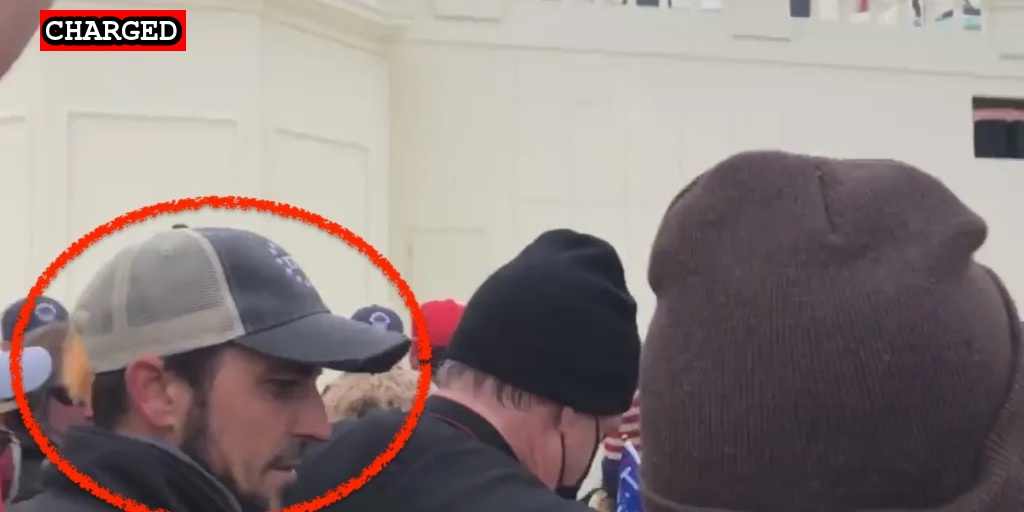
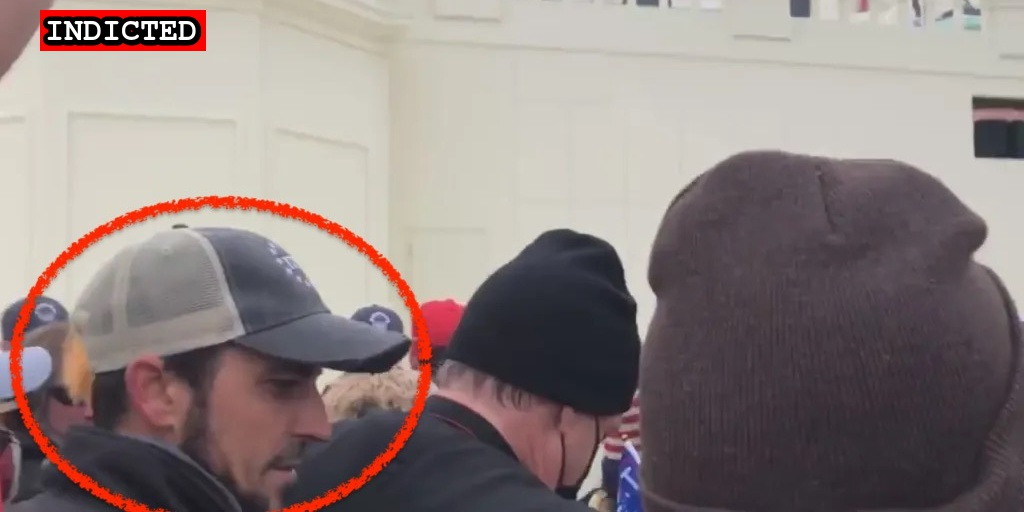
New suspects and indictments

Changed region(s): [[0.0312, 0.0, 0.2188, 0.125]]

diff --git a/commands/suspect-import.ts b/commands/suspect-import.ts
@@ -254,6 +254,8 @@ const linkType = (description: string, lastName?: string) => {
       case /charging_docs\.pdf/.test(description):
       case /affadavit/.test(description):
       case /Charging Documents/.test(description):
+      case /mchugh/.test(description):
+      case /Statement of Offense/.test(description):
         return "Statement of Facts"
       case /Indictment/.test(description):
       case /indictment/.test(description):

diff --git a/docs/_suspects/james-mcgrew.md b/docs/_suspects/james-mcgrew.md
@@ -1,0 +1,31 @@
+---
+name: James Mcgrew
+lastName: Mcgrew
+aka:
+residence: Arizona
+status: Charged
+date: 2021-05-27
+charged: 2021-05-27
+indicted:
+age:
+occupation:
+affiliations:
+jurisdiction: Federal
+image: /images/preview/james-mcgrew.png
+suspect: james-mcgrew.png
+booking:
+courtroom:
+courthouse:
+raid:
+perpwalk:
+quote: "We're coming in here, whether you like it or not"
+title: James Mcgrew charged on May 27, 2021
+description: Click for latest case details. Suspects innocent until proven guilty.
+author: seditiontrack
+layout: suspect
+published: true
+charges:
+---
+
+- [News Report](https://www.azcentral.com/story/news/local/arizona/2021/06/02/james-burton-mcgrew-king-james-belly-tattoo-arrested-arizona-striking-2-officers-capitol-riot-jan-6/7499980002/)
+- [Statement of Facts](https://www.justice.gov/usao-dc/case-multi-defendant/file/1400856/download)

diff --git a/docs/_suspects/audrey-southard-rumsey.md b/docs/_suspects/audrey-southard-rumsey.md
@@ -1,0 +1,31 @@
+---
+name: Audrey Southard Rumsey
+lastName: Southard Rumsey
+aka:
+residence: Florida
+status: Charged
+date: 2021-06-01
+charged: 2021-06-01
+indicted:
+age:
+occupation:
+affiliations:
+jurisdiction: Federal
+image: /images/preview/audrey-southard-rumsey.png
+suspect: audrey-southard-rumsey.png
+booking:
+courtroom:
+courthouse:
+raid:
+perpwalk:
+quote:
+title: Audrey Southard Rumsey charged on June 1, 2021
+description: Click for latest case details. Suspects innocent until proven guilty.
+author: seditiontrack
+layout: suspect
+published: true
+charges:
+---
+
+- [News Report](https://lawandcrime.com/u-s-capitol-siege/florida-woman-assaulted-u-s-capitol-sergeant-with-a-flagpole-and-threatened-nancy-pelosi-on-jan-6th-feds-say/)
+- [Statement of Facts](https://www.justice.gov/usao-dc/case-multi-defendant/file/1401016/download)

diff --git a/docs/_suspects/joseph-hackett.md b/docs/_suspects/joseph-hackett.md
@@ -1,0 +1,30 @@
+---
+name: Joseph Hackett
+lastName: Hackett
+aka:
+residence: Florida
+status: Indicted
+date: 2021-05-26
+charged: 2021-05-26
+indicted: 2021-05-26
+age:
+occupation:
+affiliations:
+jurisdiction: Federal
+image: /images/preview/joseph-hackett.jpg
+suspect: joseph-hackett.jpg
+booking: Joseph-Hackett.jpg
+courtroom:
+courthouse:
+raid:
+perpwalk:
+quote: 'Messages in cursive to eliminate digital reads.'
+title: Joseph Hackett charged on May 26, 2021
+description: Click for latest case details. Suspects innocent until proven guilty.
+author: seditiontrack
+layout: suspect
+published: true
+charges:
+---
+- [News Report](https://www.mysuncoast.com/2021/05/31/sarasota-man-facing-changes-jan-capitol-riot/)
+- [Indictment](https://extremism.gwu.edu/sites/g/files/zaxdzs2191/f/Caldwell%20et%20al%20Fourth%20Superseding%20Indictment.pdf)

diff --git a/docs/_suspects/william-isaacs.md b/docs/_suspects/william-isaacs.md
@@ -1,0 +1,30 @@
+---
+name: William Isaacs
+lastName: Isaacs
+aka:
+residence: Florida
+status: Indicted
+date: 2021-05-26
+charged: 2021-05-26
+indicted: 2021-05-26
+age:
+occupation:
+affiliations:
+jurisdiction: Federal
+image: /images/preview/william-isaacs.png
+suspect: william-isaacs.png
+booking:
+courtroom:
+courthouse: william-isaacs.png
+raid:
+perpwalk:
+quote:
+title: William Isaacs charged on May 26, 2021
+description: Click for latest case details. Suspects innocent until proven guilty.
+author: seditiontrack
+layout: suspect
+published: true
+charges:
+---
+- [News Report](https://www.clickorlando.com/news/local/2021/05/31/grand-jury-indicts-kissimmee-man-for-alleged-role-in-capitol-riot/)
+- [Indictment](https://extremism.gwu.edu/sites/g/files/zaxdzs2191/f/Caldwell%20et%20al%20Fourth%20Superseding%20Indictment.pdf)

diff --git a/docs/_suspects/jason-dolan.md b/docs/_suspects/jason-dolan.md
@@ -1,0 +1,30 @@
+---
+name: Jason Dolan
+lastName: Dolan
+aka:
+residence: Florida
+status: Indicted
+date: 2021-05-26
+charged: 2021-05-26
+indicted: 2021-05-26
+age:
+occupation: Security Guard
+affiliations: Former USMC
+jurisdiction: Federal
+image: /images/preview/jason-dolan.png
+suspect: jason-dolan.png
+booking:
+courtroom:
+courthouse:
+raid:
+perpwalk:
+quote:
+title: Jason Dolan charged on May 26, 2021
+description: Click for latest case details. Suspects innocent until proven guilty.
+author: seditiontrack
+layout: suspect
+published: true
+charges:
+---
+- [News Report](https://www.palmbeachpost.com/story/news/2021/06/01/marine-wellington-arrested-capitol-riots/7469247002/)
+- [Indictment](https://extremism.gwu.edu/sites/g/files/zaxdzs2191/f/Caldwell%20et%20al%20Fourth%20Superseding%20Indictment.pdf)

diff --git a/docs/_suspects/arthur-jackman.md b/docs/_suspects/arthur-jackman.md
@@ -3,10 +3,10 @@ name: Arthur Jackman
 lastName: Jackman
 aka:
 residence: Florida
-status: Charged
+status: Indicted
 date: 2021-03-30
 charged: 2021-03-30
-indicted:
+indicted: 2021-05-26
 age: 30
 occupation:
 affiliations:
@@ -26,7 +26,9 @@ layout: suspect
 published: true
 charges:
 ---
+
 - [News Report](https://www.clickorlando.com/news/local/2021/03/30/capitol-riot-suspect-in-custody-in-orlando/)
 - [Complaint](https://www.justice.gov/opa/case-multi-defendant/file/1381341/download)
 - [Statement of Facts](https://www.justice.gov/opa/case-multi-defendant/file/1381346/download)
 - [Courthouse [Video]](https://twitter.com/DianthaSol/status/1377391331740368899)
+- [Indictment](https://extremism.gwu.edu/sites/g/files/zaxdzs2191/f/Arthur%20Jackman%20and%20Paul%20Rae%20Indictment.pdf)

diff --git a/docs/_suspects/stacy-hager.md b/docs/_suspects/stacy-hager.md
@@ -1,0 +1,31 @@
+---
+name: Stacy Hager
+lastName: Hager
+aka:
+residence: Texas
+status: Charged
+date: 2021-05-29
+charged: 2021-05-29
+indicted:
+age:
+occupation:
+affiliations:
+jurisdiction: Federal
+image: /images/preview/stacy-hager.png
+suspect: stacy-hager.png
+booking:
+courtroom:
+courthouse:
+raid:
+perpwalk:
+quote: 'We opted to scale the wall'
+title: Stacy Hager charged on May 29th, 2021
+description: Click for latest case details. Suspects innocent until proven guilty.
+author: seditiontrack
+layout: suspect
+published: true
+charges:
+---
+
+- [Complaint](https://www.justice.gov/usao-dc/case-multi-defendant/file/1400881/download)
+- [Statement of Facts](https://www.justice.gov/usao-dc/case-multi-defendant/file/1400886/download)

diff --git a/docs/_suspects/paul-rae.md b/docs/_suspects/paul-rae.md
@@ -3,10 +3,10 @@ name: Paul Rae
 lastName: Rae
 aka:
 residence: Florida
-status: Charged
+status: Indicted
 date: 2021-03-24
 charged: 2021-03-24
-indicted:
+indicted: 2021-05-26
 age: 38
 occupation:
 affiliations: Proud Boys
@@ -26,5 +26,7 @@ layout: suspect
 published: true
 charges:
 ---
+
 - [News Story](https://www.wtsp.com/amp/article/news/regional/florida/florida-proud-boys-member-capitol-insurrection/67-26ab6a33-bad0-4f9a-b790-3ccbc113d596)
 - [Statement of Facts](https://www.justice.gov/usao-dc/case-multi-defendant/file/1381166/download)
+- [Indictment](https://extremism.gwu.edu/sites/g/files/zaxdzs2191/f/Arthur%20Jackman%20and%20Paul%20Rae%20Indictment.pdf)

diff --git a/docs/_suspects/nicholas-hendrix.md b/docs/_suspects/nicholas-hendrix.md
@@ -27,3 +27,4 @@ published: true
 charges:
 ---
 - [News Story](https://www.wmtw.com/article/second-mainer-arrested-accused-of-taking-part-in-capitol-riot/36559629)
+- [Statement of Facts](https://extremism.gwu.edu/sites/g/files/zaxdzs2191/f/Nicholas%20Hendrix%20Complaint%20and%20Statement%20of%20Facts.pdf)
